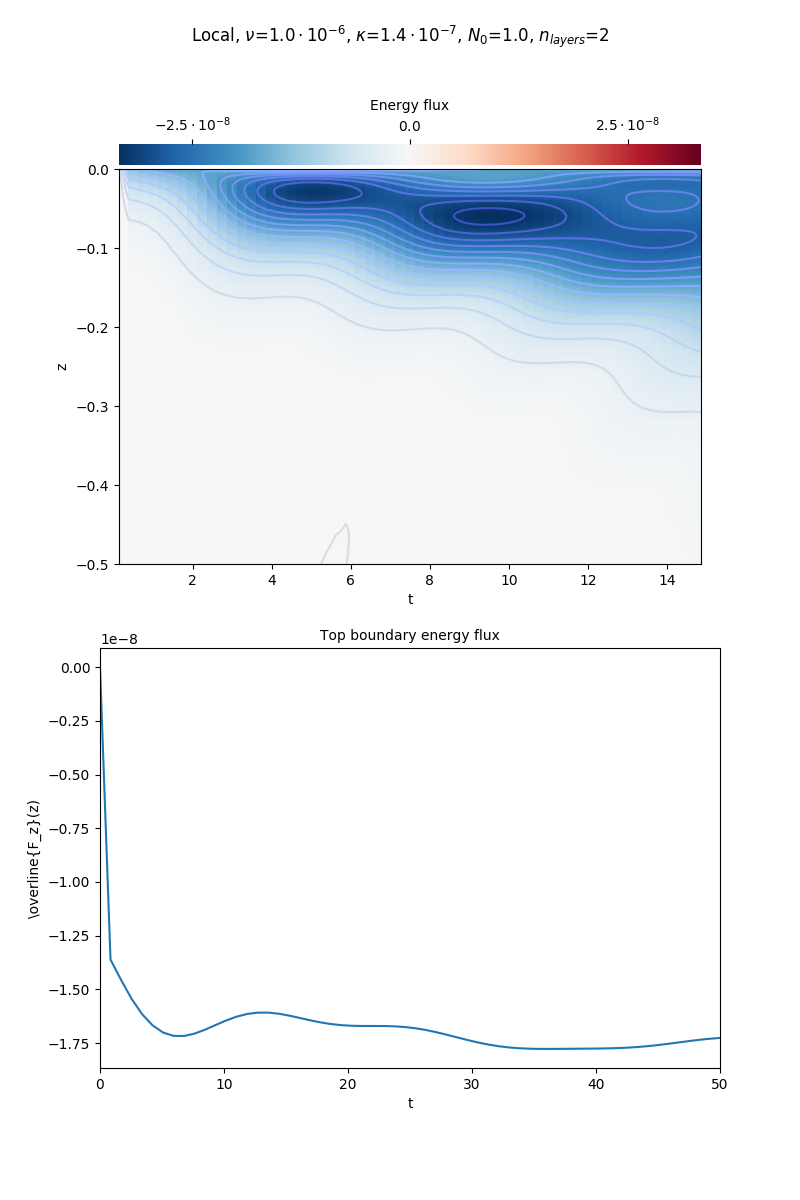
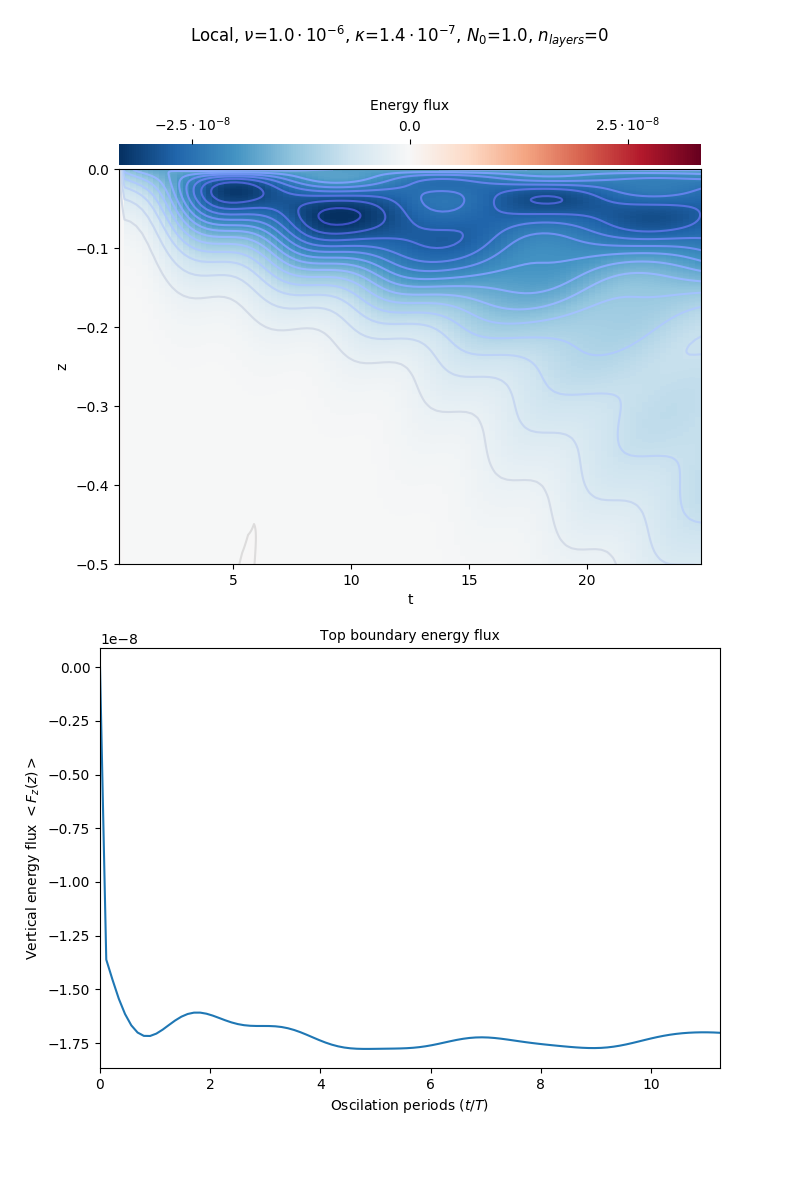
Major overhaul in script execution. Testing needed

diff --git a/current_code.py b/current_code.py
@@ -80,18 +80,14 @@ if __name__ == '__main__':
     arguments = docopt(__doc__)
     LOC = int(arguments['LOC'])
     LOC = bool(LOC)
-    AR = float(arguments['AR'])
     NU = float(arguments['NU'])
     KA = float(arguments['KA'])
-    #R0 = float(arguments['R0'])
     N0 = float(arguments['N0'])
     NL = int(arguments['NL'])
     if (rank == 0 and print_params):
         print('LOC=',LOC)
-        print('AR =',AR)
         print('NU =',NU)
         print('KA =',KA)
-        #print('R0=',R0)
         print('N0 =',N0)
         print('NL =',NL)
 
@@ -114,7 +110,7 @@ elif LOC == False:
     params = params_Niagara
 
 # Aspect ratio of domain of interest
-AR = float(params.aspect_ratio)
+#AR = float(params.aspect_ratio)
 # Number of layers in background profile
 NL = int(params.n_layers)
 # Number of grid points in each dimension
@@ -195,7 +191,6 @@ problem.meta['p','bz','uz','wz']['z']['dirichlet'] = False
 # Parameters for the equations of motion
 problem.parameters['NU'] = nu
 problem.parameters['KA'] = kappa
-#problem.parameters['R0'] = rho_0
 problem.parameters['N0'] = N_0
 
 ###############################################################################
@@ -340,10 +335,10 @@ problem.add_equation("dx(u) + wz = 0")
 problem.add_equation("dt(b) - KA*(dx(dx(b)) + dz(bz))"
                     + "= -((N0*BP)**2)*w - (u*dx(b) + w*bz)")
 #   Horizontal momentum equation
-problem.add_equation("dt(u) -SL*NU*dx(dx(u)) -SL*NU*dz(uz) + dx(p)" #/R0"
+problem.add_equation("dt(u) -SL*NU*dx(dx(u)) - NU*dz(uz) + dx(p)"
                     + "= - (u*dx(u) + w*uz)")
 #   Vertical momentum equation
-problem.add_equation("dt(w) -SL*NU*dx(dx(w)) -SL*NU*dz(wz) + dz(p) - b" #/R0"
+problem.add_equation("dt(w) -SL*NU*dx(dx(w)) - NU*dz(wz) + dz(p) - b"
                     + "= - (u*dx(w) + w*wz)")
 #problem.add_equation("dt(w) - NU*dz(wz) + dz(p) - b" #/R0"
 #                    + "= SL*NU*dx(dx(w)) - (u*dx(w) + w*wz)")

diff --git a/_energy_flux/ef_plot_2d_series.py b/_energy_flux/ef_plot_2d_series.py
@@ -35,6 +35,8 @@ rank = comm.Get_rank()
 
 ###############################################################################
 
+reproducing_run = False
+
 # Strings for the parameters
 str_nu = r'$\nu$'
 str_ka = r'$\kappa$'
@@ -85,17 +87,24 @@ if __name__ == "__main__":
 ###############################################################################
 # Fetch parameters from the correct params file
 
-# Add correct path to params files
+# Add path to params files
 sys.path.insert(0, './_params')
 if LOC:
-    import params_local
-    params = params_local
+    if reproducing_run:
+        print('Reproducing results from Ghaemsaidi')
+        import params_repro
+        params = params_repro
+    else:
+        print('Measuring energy flux')
+        import params_ef
+        params = params_ef
 elif LOC == False:
     import params_Niagara
     params = params_Niagara
 
 t_0 =  0.0
 t_f = params.sim_time_stop
+print('end time=', t_f)
 z_b = -0.5
 z_t =  0.0
 #ratio = 0.4
@@ -122,13 +131,17 @@ with h5py.File("ef_snapshots/ef_snapshots_s1.h5", mode='r') as file:
     top_ef = ef[0, :]
     n_t = len(top_ef)
     t = np.linspace(t_0, t_f, n_t)
+    omega = np.cos(np.pi/4)
+    t_p = t*omega/(2*np.pi)
+    t_0p = t_0*omega/(2*np.pi)
+    t_fp = t_f*omega/(2*np.pi)
 
-    ax1.plot(t, top_ef)
+    ax1.plot(t_p, top_ef)
     ax1.set_title('Top boundary energy flux', fontsize='medium')
-    ax1.set_xlabel(r't')
-    y_label = r'\overline{F_z}(z)'
+    ax1.set_xlabel(r'Oscilation periods $(t/T)$')
+    y_label = r'Vertical energy flux $<F_z(z)>$'
     ax1.set_ylabel(y_label)
-    ax1.set_xlim(t_0, t_f)
+    ax1.set_xlim(t_0p, t_fp)
     ax1.get_shared_x_axes().join(ax0, ax1)
 
     title = r'{:}, {:}={:}, {:}={:}, {:}={:}, {:}={:}'.format(str_loc, str_nu, Nu, str_ka, Ka, str_n0, N_0, str_nl, n_l)

diff --git a/_params/params_ef.py b/_params/params_ef.py
@@ -4,8 +4,8 @@
 import numpy as np
 
 # Stop times for the simulation
-sim_time_stop = 5 # time units (t)
-wall_time_stop = 15 # min
+sim_period_stop = 20 # oscillation periods, time in seconds calculated below
+wall_time_stop = 35 # min
 
 # Determine whether adaptive time stepping is on or off
 adapt_dt = False
@@ -37,3 +37,5 @@ k_x    = 2*np.pi/lam_x
 k_z    = k_x * np.tan(theta)
 # Other parameters
 forcing_amp   = 1.0e-4
+
+sim_time_stop = 10 # time units (t)

diff --git a/plot_2d_series.py b/plot_2d_series.py
@@ -145,7 +145,7 @@ def main(filename, start, count, output):
         ybott  = min(vert)
         ytop   = max(vert)
         if (xright-xleft == 0):
-            print('whoops')
+            #print('whoops')
             dis_ratio = 0.4
             xleft  =  0.0
             xright =  1.5
